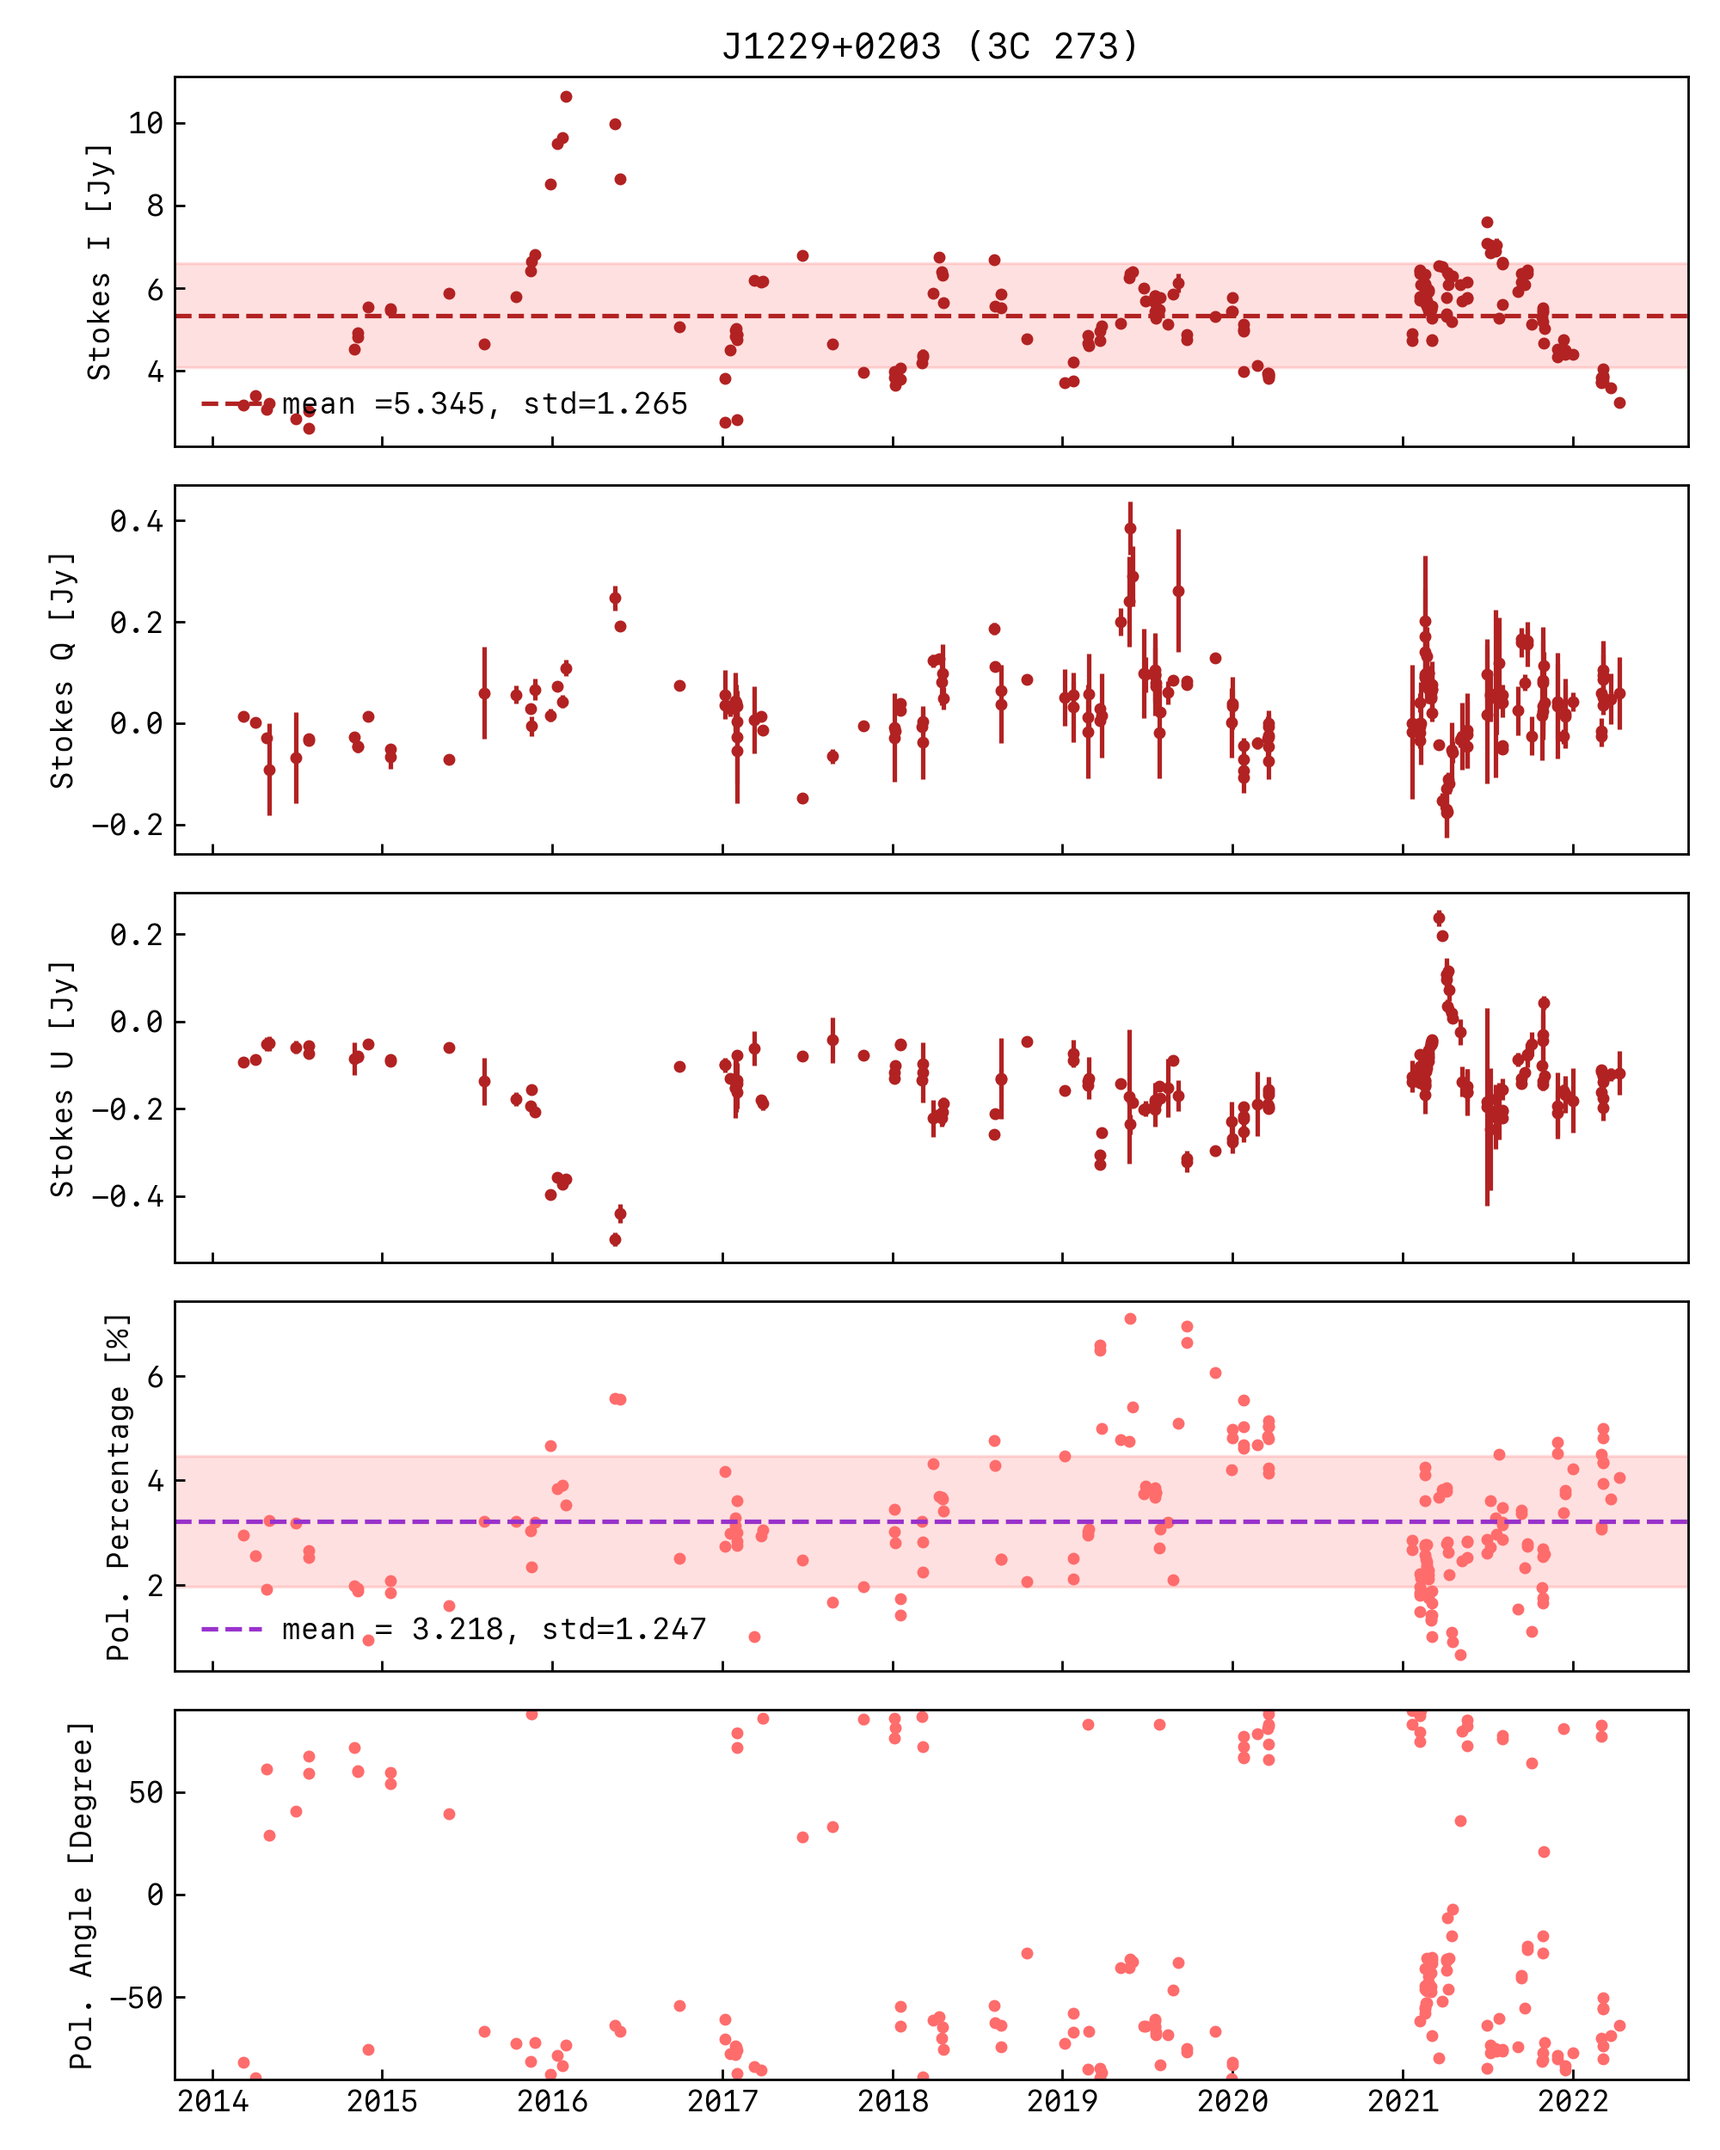
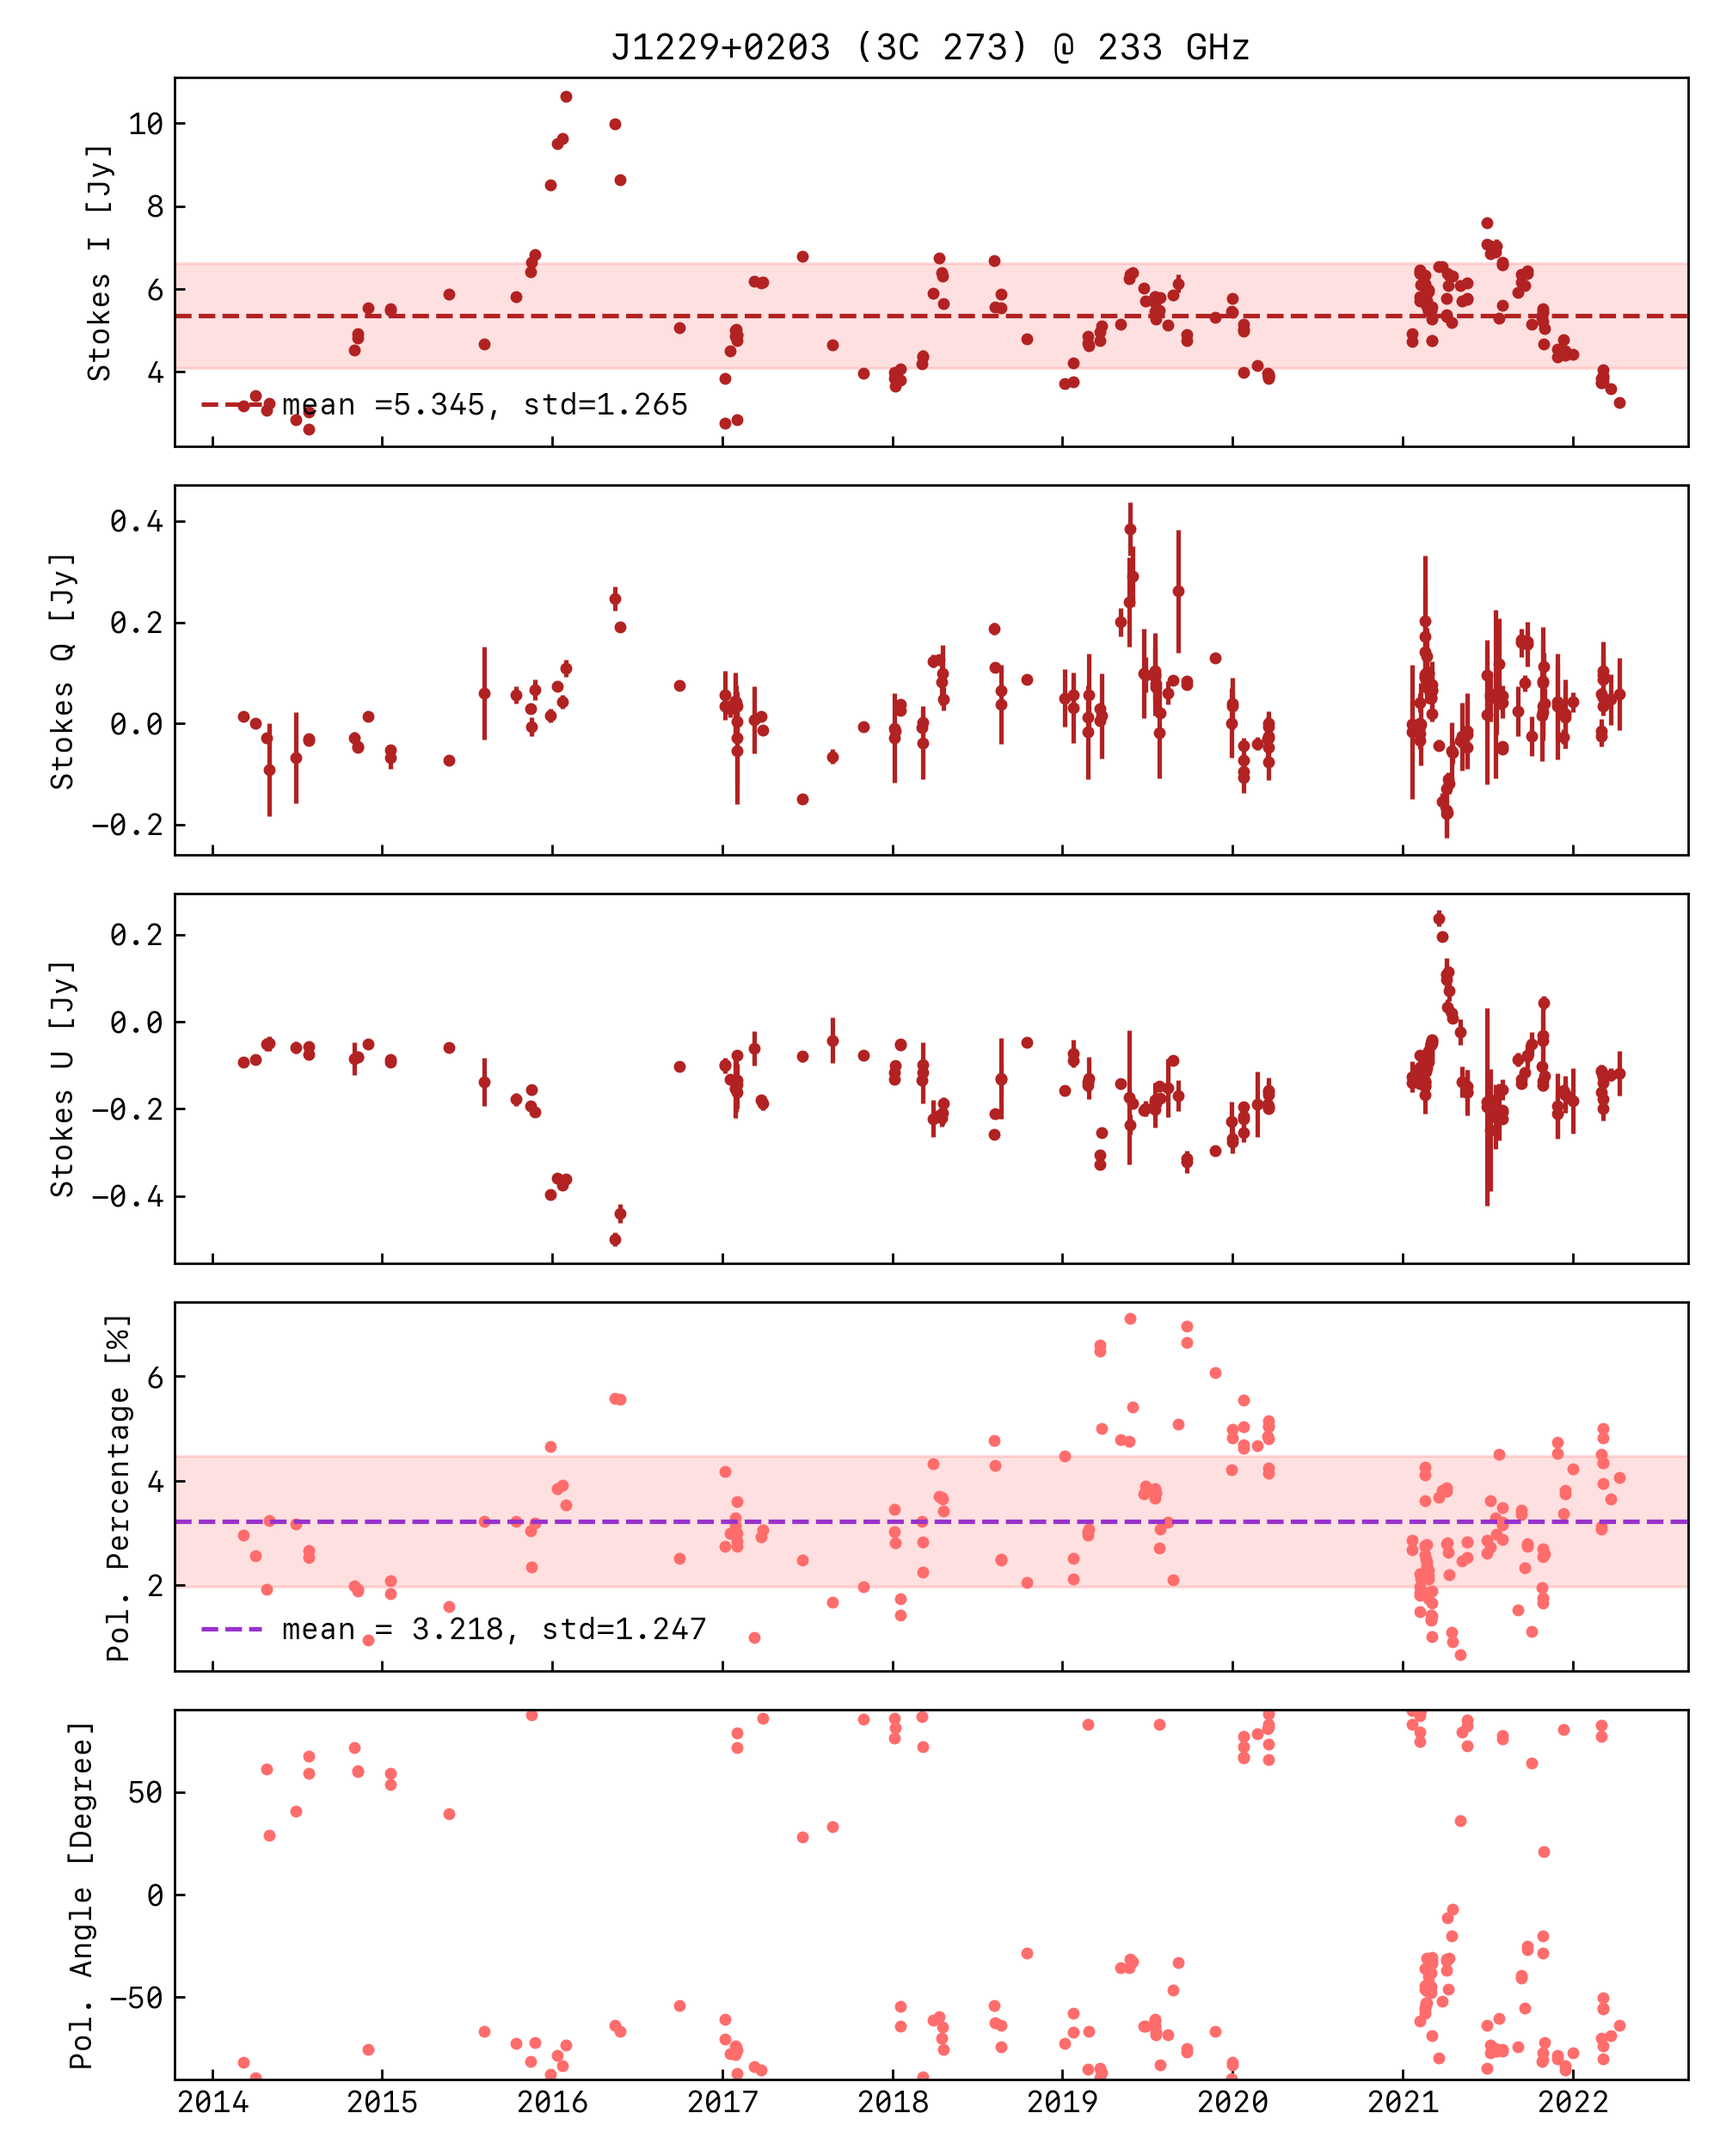
add images

Changed region(s): [[0.372, 0.0, 0.713, 0.0312], [0.062, 0.624, 0.093, 0.6864]]

diff --git a/src/amapola_obs.py b/src/amapola_obs.py
@@ -23,7 +23,8 @@ if __name__ == "__main__":
     amapola_data['polangle'] = np.arctan2(amapola_data['U'], amapola_data['Q'])
     amapola_data['rotatedpolangle'] = np.arctan2(amapola_data['U'], amapola_data['Q']) + (np.pi / 2)
 
-    band_7 = amapola_data.loc[amapola_data['Freq'] == 233].copy()
+    freq = 233
+    band_7 = amapola_data.loc[amapola_data['Freq'] == freq].copy()
 
     targets = ['J1331+3030', 'J1229+0203']
     names_3c = ['3C 286', '3C 273']
@@ -33,7 +34,7 @@ if __name__ == "__main__":
         plot_obj, sp_obj = plt.subplots(5, 1, figsize=(8, 10), sharex=True, dpi=200) # gridspec_kw={'hspace': 0, 'wspace': 0}
         sp_obj = sp_obj.ravel()
 
-        sp_obj[0].set_title(f"{source} ({name_3c})")
+        sp_obj[0].set_title(f"{source} ({name_3c}) @ {freq} GHz")
 
         # Total Intensity (Stokes I )
         sp_obj[0].plot(this_source_only['Date'], this_source_only['I'], '.', color='firebrick')
@@ -47,13 +48,13 @@ if __name__ == "__main__":
         sp_obj[1].plot(this_source_only['Date'], this_source_only['Q'], '.', color='firebrick')
         sp_obj[1].errorbar(this_source_only['Date'], this_source_only['Q'], this_source_only['eQ'], ls='none', color='firebrick')
         sp_obj[1].set_ylabel("Stokes Q [Jy]")
-        sp_obj[1].legend(fancybox=False, loc='lower left', handletextpad=0.7, frameon=False)
+        #sp_obj[1].legend(fancybox=False, loc='lower left', handletextpad=0.7, frameon=False)
 
         # Stokes U
         sp_obj[2].plot(this_source_only['Date'], this_source_only['U'], '.', color='firebrick')
         sp_obj[2].errorbar(this_source_only['Date'], this_source_only['U'], this_source_only['eU'], ls='none', color='firebrick')
         sp_obj[2].set_ylabel("Stokes U [Jy]")
-        sp_obj[2].legend(fancybox=False, loc='lower left', handletextpad=0.7, frameon=False)
+        #sp_obj[2].legend(fancybox=False, loc='lower left', handletextpad=0.7, frameon=False)
 
         # Polarization Percentage
         sp_obj[3].plot(this_source_only['Date'], this_source_only['polpercentage'], '.')
@@ -66,7 +67,7 @@ if __name__ == "__main__":
         sp_obj[4].plot(this_source_only['Date'], np.arctan(np.tan(this_source_only['polangle'])) *  (360 /  (2 * np.pi)), '.')
         sp_obj[4].set_ylabel("Pol. Angle [Degree]")
         sp_obj[4].set_ylim((-90, 90))
-        sp_obj[4].legend(fancybox=False, loc='lower left', handletextpad=0.7, frameon=False)
+        #sp_obj[4].legend(fancybox=False, loc='lower left', handletextpad=0.7, frameon=False)
 
         plot_obj.tight_layout()
         plot_obj.savefig(f'./plots/amapola/{name_3c}.png', dpi=250)

diff --git a/src/obsplan.py b/src/obsplan.py
@@ -24,10 +24,8 @@ lmt_observer = Observer(location=lmt_location,
     timezone='America/Mexico_City'
 )
 
-
 start_datetime = '2022-05-01 00:00:00'
 observe_time =  Time(start_datetime) + np.linspace(0, 24, 100)*u.hour
-
 
 names_3c = ['3C 286', '3C 273']
 for source in names_3c:
@@ -40,6 +38,7 @@ for source in names_3c:
         time=observe_time,
         brightness_shading=True,
     )
+    plt.title(source)
     plt.axhline(y=20, linestyle='--', color='black')
     plt.savefig(f'./plots/obsplanner/{source}.png', dpi=250)
     plt.close('all')

diff --git a/README.md b/README.md
@@ -7,15 +7,23 @@
     - 7.5 mJy @ 1.1 mm
     - 3.0 mJy @ 3.0 mm
 - Minimum Fractional Polarization
-    - $p = 10%$
+    - p = 10%
 
 
 ### Sources from the Proposal
 
 #### 3C286
 
+![3C286 ALMA Observations](plots/amapola/3C 286.png)
+
+![3C286 ALMA Planner](plots/obsplanner/3C 286.png)
+
 #### 3C147
 
 #### 3C273
+![3C273 ALMA Observations](plots/amapola/3C 273.png)
+
+![3C273 ALMA Planner](plots/obsplanner/3C 273.png)
+
 
 
